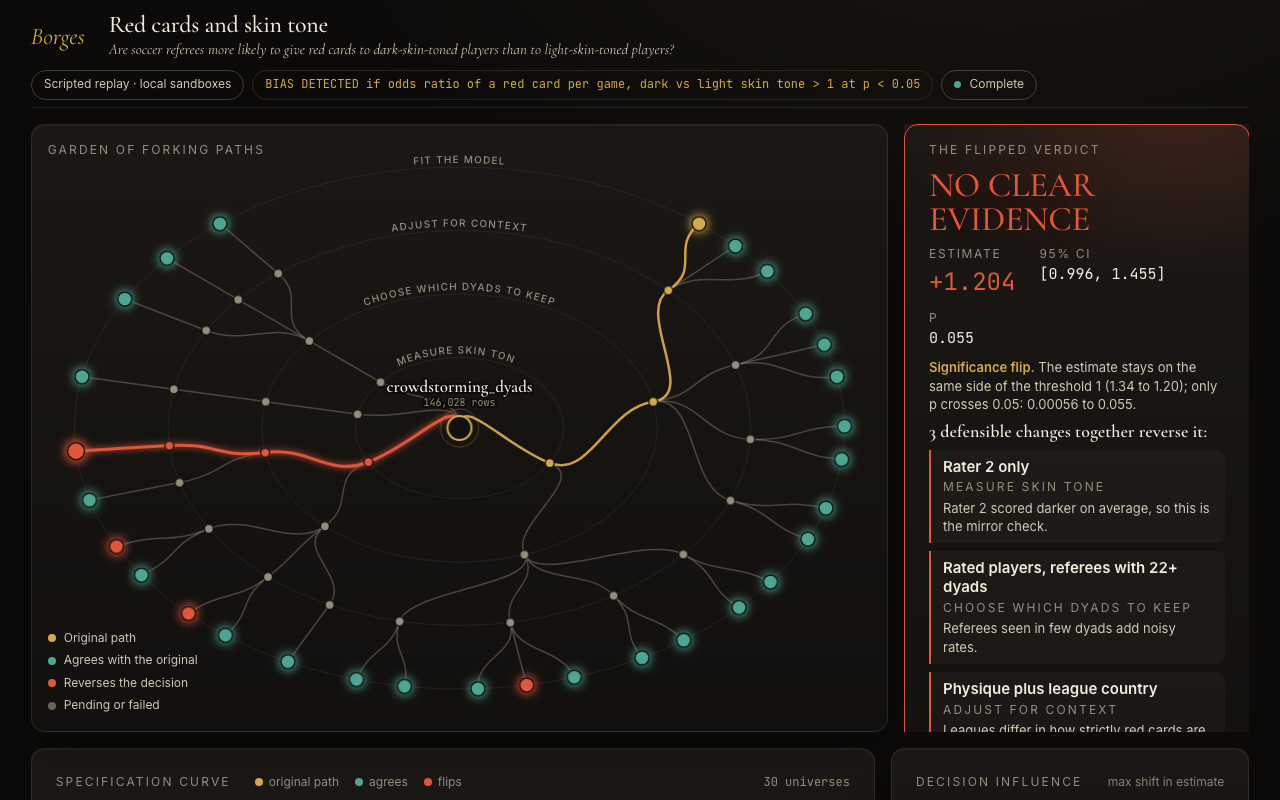
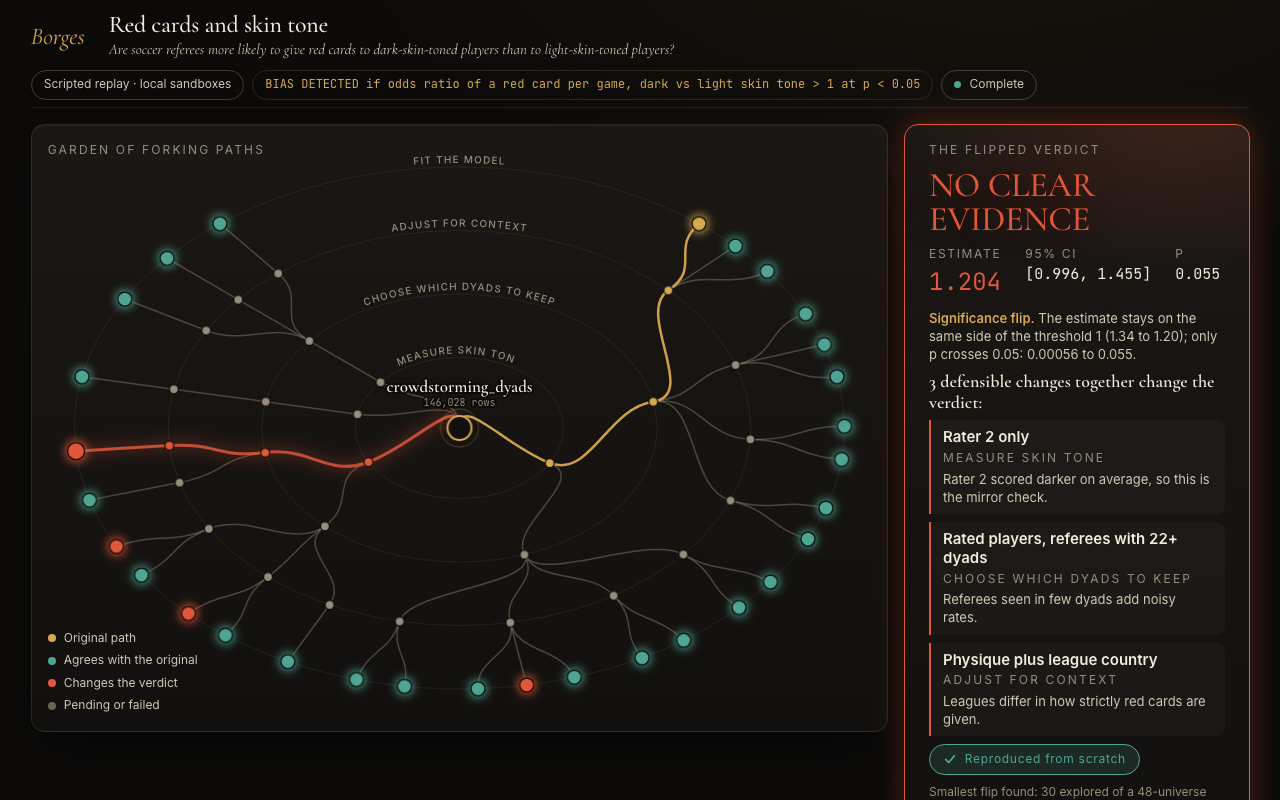
fix(ux): verdict card grows with content, caption clear of axis label, short ring labels at 390, refresh screenshots

diff --git a/frontend/src/features/garden/Rings.tsx b/frontend/src/features/garden/Rings.tsx
@@ -1,6 +1,7 @@
 import { memo } from "react";
 import type { Step } from "../../shared/types/contracts";
 import { pointAt, WEDGE } from "./layout";
+import { fitRingTitle } from "./ringTitle";
 
 interface Props {
   steps: Step[];
@@ -30,9 +31,10 @@ interface FittedLabel {
 function fit(title: string, radius: number, aspect: number): FittedLabel {
   const arc = LABEL_SPAN * radius * aspect;
   const room = Math.floor(arc / CHAR_WIDTH);
-  if (title.length <= room) return { text: title };
-  if (title.length <= room * MAX_SQUEEZE) return { text: title, textLength: arc * 0.96 };
-  return { text: `${title.slice(0, Math.max(room - 1, 3)).trimEnd()}…` };
+  const picked = fitRingTitle(title, room, MAX_SQUEEZE);
+  if (!picked.fits) return { text: `${picked.text.slice(0, Math.max(room - 1, 3)).trimEnd()}…` };
+  if (picked.text.length <= room) return { text: picked.text };
+  return { text: picked.text, textLength: arc * 0.96 };
 }
 
 function RingsBase({ steps, radiusOf, aspect, showLabels }: Props) {

diff --git a/frontend/src/features/speccurve/DecisionMatrix.tsx b/frontend/src/features/speccurve/DecisionMatrix.tsx
@@ -1,3 +1,4 @@
+import { fitRingTitle } from "../garden/ringTitle";
 import type { Layout } from "./specCurveLayout";
 import type { MatrixRow } from "./specCurveData";
 
@@ -11,12 +12,16 @@ export function DecisionMatrix({ layout, rows }: Props) {
   return (
     <g className="sc-matrix">
       {rows.map((row, i) => {
+        const room = Math.floor((left - 14) / 6.4);
+        const fitted = fitRingTitle(row.title, room, 1);
+        const text = fitted.fits ? fitted.text : `${fitted.text.slice(0, Math.max(room - 1, 3)).trimEnd()}…`;
         const cy = matrixTop + i * rowHeight + rowHeight / 2;
         return (
           <g key={row.stepId}>
             <line className="sc-matrix__rule" x1={left} x2={width - right} y1={cy} y2={cy} />
             <text className="sc-matrix__label" x={left - 10} y={cy} dy="0.32em" textAnchor="end">
-              {row.title}
+              {text !== row.title && <title>{row.title}</title>}
+              {text}
             </text>
           </g>
         );

diff --git a/frontend/src/features/garden/ringTitle.ts b/frontend/src/features/garden/ringTitle.ts
@@ -1,0 +1,19 @@
+const LEADING_VERBS = /^(choose which|choose|adjust for|fit the|measure|standardise the|standardize the|handle|pick|select|use the|use)\s+/i;
+
+function capitalise(text: string): string {
+  return text.charAt(0).toUpperCase() + text.slice(1);
+}
+
+export function ringTitleCandidates(title: string): string[] {
+  const stripped = capitalise(title.replace(LEADING_VERBS, "").trim());
+  const first = stripped.split(/\s+/)[0] ?? stripped;
+  return [...new Set([title, stripped, first])].filter((text) => text.length > 0);
+}
+
+export function fitRingTitle(title: string, room: number, maxSqueeze: number): { text: string; fits: boolean } {
+  const candidates = ringTitleCandidates(title);
+  const fitting = candidates.find((text) => text.length <= room * maxSqueeze);
+  if (fitting) return { text: fitting, fits: true };
+  const last = candidates[candidates.length - 1] ?? title;
+  return { text: last, fits: false };
+}

diff --git a/frontend/src/features/garden/ringTitle.test.ts b/frontend/src/features/garden/ringTitle.test.ts
@@ -1,0 +1,15 @@
+import { describe, expect, it } from "vitest";
+import { fitRingTitle, ringTitleCandidates } from "./ringTitle";
+
+describe("ring titles", () => {
+  it("drops leading verbs and falls back to the first noun", () => {
+    expect(ringTitleCandidates("Choose which dyads to keep")).toEqual(["Choose which dyads to keep", "Dyads to keep", "Dyads"]);
+    expect(ringTitleCandidates("Adjust for context")).toEqual(["Adjust for context", "Context"]);
+  });
+
+  it("keeps the full title when it fits and shortens before truncating", () => {
+    expect(fitRingTitle("Fit the model", 20, 1.12)).toEqual({ text: "Fit the model", fits: true });
+    expect(fitRingTitle("Choose which dyads to keep", 6, 1.12)).toEqual({ text: "Dyads", fits: true });
+    expect(fitRingTitle("Choose which dyads to keep", 3, 1.12).fits).toBe(false);
+  });
+});

diff --git a/frontend/src/features/speccurve/specCurveLayout.test.ts b/frontend/src/features/speccurve/specCurveLayout.test.ts
@@ -1,0 +1,14 @@
+import { describe, expect, it } from "vitest";
+import { makeLayout } from "./specCurveLayout";
+
+describe("makeLayout", () => {
+  it("leaves room under the plot for the axis label and the reference caption", () => {
+    const withRef = makeLayout(900, 4, 15, true, [0, 1]);
+    const bare = makeLayout(900, 4, 15, false, [0, 1]);
+    const axisLabelY = withRef.top + withRef.curveHeight + 20;
+    const captionY = withRef.top + withRef.curveHeight + 38;
+    expect(captionY - axisLabelY).toBeGreaterThanOrEqual(14);
+    expect(withRef.matrixTop - captionY).toBeGreaterThanOrEqual(4);
+    expect(bare.gap).toBeLessThan(withRef.gap);
+  });
+});

diff --git a/frontend/src/features/run/run.css b/frontend/src/features/run/run.css
@@ -109,20 +109,16 @@
   display: grid;
   grid-template-columns: minmax(0, 1fr) clamp(340px, 27vw, 460px);
   gap: var(--space-4);
-  height: max(420px, calc(100dvh - var(--run-chrome)));
+  align-items: start;
 }
 
 .run-garden {
   min-width: 0;
-  min-height: 0;
+  height: max(420px, calc(100dvh - var(--run-chrome)));
 }
 
 .run-side {
   min-width: 0;
-  min-height: 0;
-  overflow-y: auto;
-  scrollbar-width: thin;
-  scrollbar-color: var(--line-strong) transparent;
 }
 
 .run-below {

diff --git a/frontend/src/features/speccurve/ReferenceLane.tsx b/frontend/src/features/speccurve/ReferenceLane.tsx
@@ -27,7 +27,7 @@ export function ReferenceLane({ layout, reference, label }: Props) {
       <text className="sc-reference__value" x={center + 16} y={y(low)} dy="0.32em">
         {formatNumber(low)}
       </text>
-      <text className="sc-reference__label" x={width} y={top + curveHeight + 18} textAnchor="end">
+      <text className="sc-reference__label" x={width} y={top + curveHeight + 38} textAnchor="end">
         {label}
       </text>
       {reference.map((r, i) => (

diff --git a/frontend/src/features/speccurve/specCurveLayout.ts b/frontend/src/features/speccurve/specCurveLayout.ts
@@ -22,7 +22,7 @@ export function makeLayout(width: number, rows: number, n: number, hasReference:
   const right = hasReference ? 96 : 20;
   const top = 18;
   const curveHeight = width < 640 ? 160 : 240;
-  const gap = 30;
+  const gap = hasReference ? 46 : 30;
   const rowHeight = 24;
   const innerWidth = Math.max(60, width - left - right);
   const step = Math.min(96, innerWidth / Math.max(n, MIN_SLOTS));
